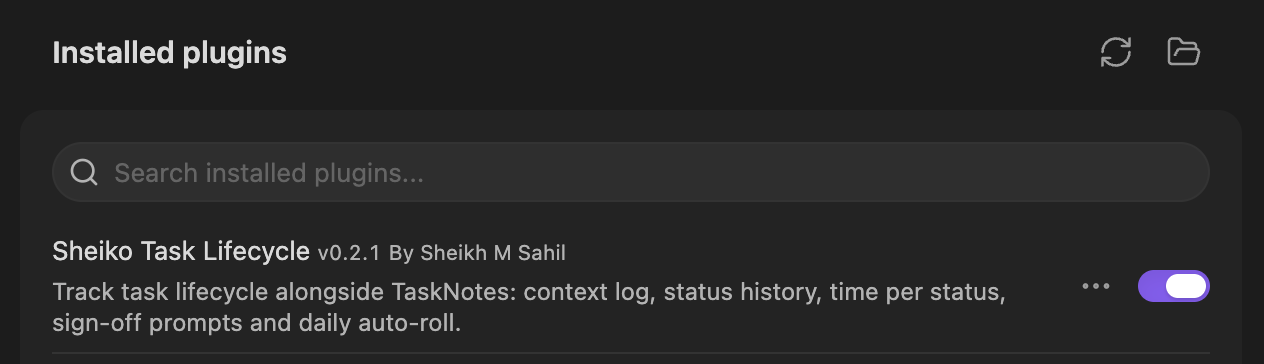
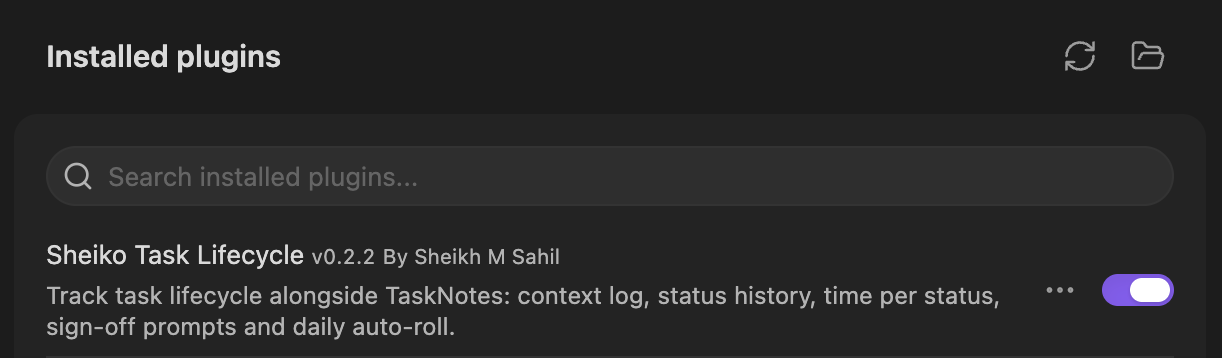
README screenshot: installed plugins at v0.2.2

diff --git a/README.md b/README.md
@@ -132,7 +132,7 @@ Statuses and field names are read from TaskNotes' settings rather than hardcoded
 - **TaskNotes** installed and enabled (tested on 4.13.4)
 - Obsidian's Daily Notes settings (folder and date format) are used for the Rolled Over summary
 
-![Installed plugins: Sheiko Task Lifecycle v0.2.1 by Sheikh M Sahil, enabled](docs/screenshots/installed-plugins.png)
+![Installed plugins: Sheiko Task Lifecycle v0.2.2 by Sheikh M Sahil, enabled](docs/screenshots/installed-plugins.png)
 
 ## Compatibility
 
